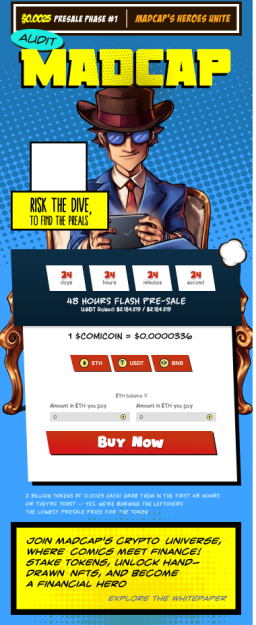
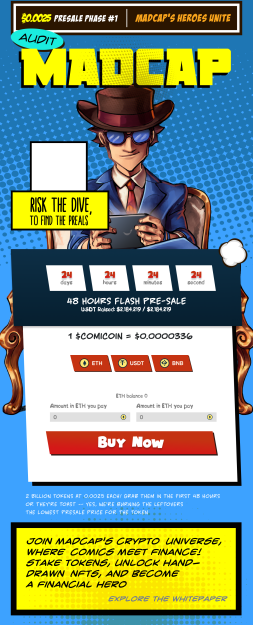
code share

diff --git a/src/components/MyNave.jsx b/src/components/MyNave.jsx
@@ -1,11 +1,11 @@
 import React, { useEffect, useState } from "react";
 import { Container } from "react-bootstrap";
 import { CrossIcon, DiscrodIcon, MenuIcon, TwitterIcon } from "./common/Icon";
-import yellowColor from "../assets/img/png/yellow_curve_img.png";
-import HeroImg from "../assets/img/png/groping_hero.png";
+
+import HeroImg from "../assets/img/webp/groping_hero.webp";
 import CoffeeImg from "../assets/img/webp/Coffee_img.webp";
 import line from "../assets/img/svg/line.svg";
-import MobileView from "../assets/img/png/mobile_Version.png"
+import MobileView from "../assets/img/webp/mobile_Version.webp"
 
 const Mynav = () => {
   const [menu, setMenu] = useState(false);
@@ -36,9 +36,9 @@ const Mynav = () => {
       <section className="bg_img_hero min_h_100 position-relative">
         <div className="mobile_img position-absolute mobile_img_w w-100 top-50 translate-middle-y rotate d-none d-xl-block mobile_img_position">
           <p className="fs_sm text-white text-center mt-5 pt-2">
-            Time: {currentTime}
+           {currentTime}
           </p>
-          <p className="fs_sm text-white text-center ">Date: {currentDate}</p>
+          <p className="fs_sm text-white text-center "> {currentDate}</p>
           <p className="fs_md text-white fw-normal text-center ff_Liberty mt-5">
             no venture, <br /> no victory
           </p>
@@ -62,7 +62,7 @@ const Mynav = () => {
                         href="#"
                       >
                         HOME
-                      </a>{" "}
+                      </a>
                     </li>
                     <li className="d-md-none">
                       <img src={line} alt="" />
@@ -72,8 +72,8 @@ const Mynav = () => {
                         className="text-white text-decoration-none fw-bold fs_sm ff_MangaMaster text-uppercase mb-0"
                         href="#"
                       >
-                        MADCAP{" "}
-                      </a>{" "}
+                        MADCAP
+                      </a>
                     </li>
                     <li className="d-md-none">
                       <img src={line} alt="" />
@@ -83,8 +83,8 @@ const Mynav = () => {
                         className="text-white text-decoration-none fw-bold fs_sm ff_MangaMaster text-uppercase mb-0"
                         href="#"
                       >
-                        Tokenomics{" "}
-                      </a>{" "}
+                        Tokenomics
+                      </a>
                     </li>
                     <li className="d-md-none">
                       <img src={line} alt="" />
@@ -95,7 +95,7 @@ const Mynav = () => {
                         href="#"
                       >
                         Road Map
-                      </a>{" "}
+                      </a>
                     </li>
                     <li className="d-md-none">
                       <img src={line} alt="" />
@@ -106,7 +106,7 @@ const Mynav = () => {
                         href="#"
                       >
                         Staking
-                      </a>{" "}
+                      </a>
                     </li>
                     <li className="d-md-none">
                       <img src={line} alt="" />
@@ -117,7 +117,7 @@ const Mynav = () => {
                         href="#"
                       >
                         NFT
-                      </a>{" "}
+                      </a>
                     </li>
                     <li className="d-md-none">
                       <img src={line} alt="" />
@@ -128,7 +128,7 @@ const Mynav = () => {
                         href="#"
                       >
                         Whitepaper
-                      </a>{" "}
+                      </a>
                     </li>
                     <li
                       className="d-md-none pt-5"
@@ -145,7 +145,7 @@ const Mynav = () => {
                 </div>
                 <div className="d-flex align-items-center gap-4">
                   <a href="#" className="pb-1">
-                    {" "}
+                    
                     <TwitterIcon />
                   </a>
                   <a href="#" className="pb-1">
@@ -179,9 +179,11 @@ const Mynav = () => {
             <img className="w-100 d-none d-md-block" src={HeroImg} alt="HeroImg" />
             <img className="w-100 d-md-none" src={MobileView} alt="HeroImg" />
             {/* footer */}
-            {/* <div className="yellow_border w-100 bg_height"></div> */}
 
           </div>
+          <div className="yellow_border w-100 bg_height"></div>
+          <div className="bg_blue w-100 pt-1"></div>
+
           <div className=" bg_red text-center">
             <h2 className="fw-normal fs_xxl letter_spa ff_brothers mb-0 py-2">
               Madcap's Mission: Turning Everyday Investors into crypto heros!
@@ -190,9 +192,9 @@ const Mynav = () => {
           <div className="bg_secondary bg-height w-100"></div>
           <div className="yellow_border w-100"></div>
           <div className="bg-black">
-            <p className="text-white text-center py-2 fs_xs ff_MangaMaster fw-normal ltr_sp_6">
+            <p className="text-white text-center py-2 fs_xs ff_MangaMaster fw-normal ltr_sp_6 mb-0">
               all rights reserved for the Comicoin {year}
-              <span className="ps-5">contact us</span>
+              <span className="ps-5 cursor_pointer">contact us</span>
             </p>
           </div>
         </Container>

diff --git a/public/index.html b/public/index.html
@@ -24,7 +24,7 @@
       work correctly both with client-side routing and a non-root public URL.
       Learn how to configure a non-root public URL by running `npm run build`.
     -->
-    <title>React App</title>
+    <title>madcap</title>
   </head>
   <body>
     <noscript>You need to enable JavaScript to run this app.</noscript>
